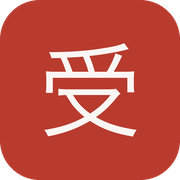
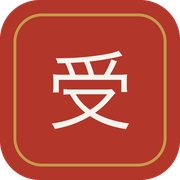
受信簿ポスト: 首里城の配色（朱・金・黒漆・胡粉）に統一

Changed region(s): [[0.25, 0.2222, 0.7778, 0.7778], [0.0556, 0.0556, 0.9444, 0.9444]]

diff --git a/memo/index.html b/memo/index.html
@@ -11,27 +11,29 @@
 <meta name="apple-mobile-web-app-capable" content="yes">
 <meta name="apple-mobile-web-app-title" content="受信簿">
 <meta name="apple-mobile-web-app-status-bar-style" content="default">
-<meta name="theme-color" content="#b83b2e">
+<meta name="theme-color" content="#b2362a">
 <link rel="preconnect" href="https://fonts.googleapis.com">
 <link rel="preconnect" href="https://fonts.gstatic.com" crossorigin>
 <link rel="stylesheet" href="https://fonts.googleapis.com/css2?family=IBM+Plex+Mono:wght@400;500&display=swap">
 <style>
   :root {
     color-scheme: light;
-    --paper:      #f4f4f1;
-    --surface:    #ffffff;
-    --surface-2:  #eceded;
-    --line:       #d8dad9;
-    --line-soft:  #e6e7e6;
-    --ink:        #1b2229;
-    --ink-2:      #4d5760;
-    --ink-3:      #7d868e;
-    --ai:         #27496b;
-    --ai-soft:    #e3eaf1;
-    --ai-ink:     #1d3a54;
+    /* 首里城：朱塗り・金の装飾・黒漆・胡粉の白 */
+    --paper:      #f7f3ec;
+    --surface:    #fffdf9;
+    --surface-2:  #f0e8dc;
+    --line:       #ddd2c2;
+    --line-soft:  #ebe3d6;
+    --ink:        #241b17;
+    --ink-2:      #574a43;
+    --ink-3:      #8a796e;
+    --ai:         #b2362a;
+    --ai-soft:    #f7e4df;
+    --ai-ink:     #8a2820;
+    --gold:       #a8842c;
     --ok:         #3f7a52;
-    --danger:     #9b3b32;
-    --shadow:     0 1px 2px rgba(27,34,41,.06), 0 8px 24px rgba(27,34,41,.05);
+    --danger:     #6f2a1b;
+    --shadow:     0 1px 2px rgba(36,27,23,.07), 0 8px 24px rgba(36,27,23,.06);
     --mono: "IBM Plex Mono", ui-monospace, SFMono-Regular, Menlo, monospace;
     --sans: "Hiragino Sans", "Hiragino Kaku Gothic ProN", "Noto Sans JP", "Yu Gothic Medium", system-ui, sans-serif;
     --serif: "Hiragino Mincho ProN", "Yu Mincho", "Noto Serif JP", serif;
@@ -39,22 +41,24 @@
   @media (prefers-color-scheme: dark) {
     :root:not([data-theme="light"]) {
       color-scheme: dark;
-      --paper: #14181d; --surface: #1b2027; --surface-2: #232a32;
-      --line: #2f3843; --line-soft: #262e37;
-      --ink: #e7eaed; --ink-2: #a9b3bd; --ink-3: #78838e;
-      --ai: #8ab6d8; --ai-soft: #22323f; --ai-ink: #bcd6ea;
+      --paper: #16110f; --surface: #1e1815; --surface-2: #29211d;
+      --line: #3b302a; --line-soft: #2f2621;
+      --ink: #f0e7de; --ink-2: #c0b0a4; --ink-3: #8d7d72;
+      --ai: #e0715f; --ai-soft: #3a221d; --ai-ink: #f3b8ab;
+      --gold: #d9b45f;
       --ok: #7fb894; --danger: #d98a80;
-      --shadow: 0 1px 2px rgba(0,0,0,.3), 0 8px 24px rgba(0,0,0,.25);
+      --shadow: 0 1px 2px rgba(0,0,0,.35), 0 8px 24px rgba(0,0,0,.3);
     }
   }
   :root[data-theme="dark"] {
     color-scheme: dark;
-    --paper: #14181d; --surface: #1b2027; --surface-2: #232a32;
-    --line: #2f3843; --line-soft: #262e37;
-    --ink: #e7eaed; --ink-2: #a9b3bd; --ink-3: #78838e;
-    --ai: #8ab6d8; --ai-soft: #22323f; --ai-ink: #bcd6ea;
+    --paper: #16110f; --surface: #1e1815; --surface-2: #29211d;
+    --line: #3b302a; --line-soft: #2f2621;
+    --ink: #f0e7de; --ink-2: #c0b0a4; --ink-3: #8d7d72;
+    --ai: #e0715f; --ai-soft: #3a221d; --ai-ink: #f3b8ab;
+    --gold: #d9b45f;
     --ok: #7fb894; --danger: #d98a80;
-    --shadow: 0 1px 2px rgba(0,0,0,.3), 0 8px 24px rgba(0,0,0,.25);
+    --shadow: 0 1px 2px rgba(0,0,0,.35), 0 8px 24px rgba(0,0,0,.3);
   }
 
   * { box-sizing: border-box; }
@@ -77,8 +81,13 @@
     gap: 22px;
   }
 
-  header { display: flex; flex-direction: column; gap: 4px; }
+  header {
+    display: flex; flex-direction: column; gap: 6px;
+    border-bottom: 1px solid var(--gold);
+    padding-bottom: 10px;
+  }
   h1 {
+    color: var(--ai);
     font-family: var(--serif);
     font-size: 25px; font-weight: 600;
     letter-spacing: .06em; margin: 0;
@@ -99,7 +108,7 @@
   .eyebrow {
     font-family: var(--mono); font-size: 10.5px;
     letter-spacing: .14em; text-transform: uppercase;
-    color: var(--ink-3);
+    color: var(--gold);
   }
   input[type="date"], input[type="url"], input[type="password"] {
     font: 500 15px/1.4 var(--mono);
@@ -182,8 +191,8 @@
     border: none; border-radius: 8px;
     padding: 12px 20px; min-height: 44px; cursor: pointer;
   }
-  :root[data-theme="dark"] .sendnow { color: #101820; }
-  @media (prefers-color-scheme: dark) { :root:not([data-theme="light"]) .sendnow { color: #101820; } }
+  :root[data-theme="dark"] .sendnow { color: #1a100d; }
+  @media (prefers-color-scheme: dark) { :root:not([data-theme="light"]) .sendnow { color: #1a100d; } }
   .sendnow:disabled { opacity: .4; cursor: default; }
 
   .notice {
@@ -201,7 +210,7 @@
   details.settings > summary {
     cursor: pointer; padding: 11px 0;
     font-family: var(--mono); font-size: 11.5px;
-    letter-spacing: .08em; text-transform: uppercase; color: var(--ink-3);
+    letter-spacing: .08em; text-transform: uppercase; color: var(--gold);
   }
   .settings-body { display: flex; flex-direction: column; gap: 10px; padding: 4px 0 16px; }
   .settings-body label { font-size: 12.5px; color: var(--ink-2); display: flex; flex-direction: column; gap: 5px; }
